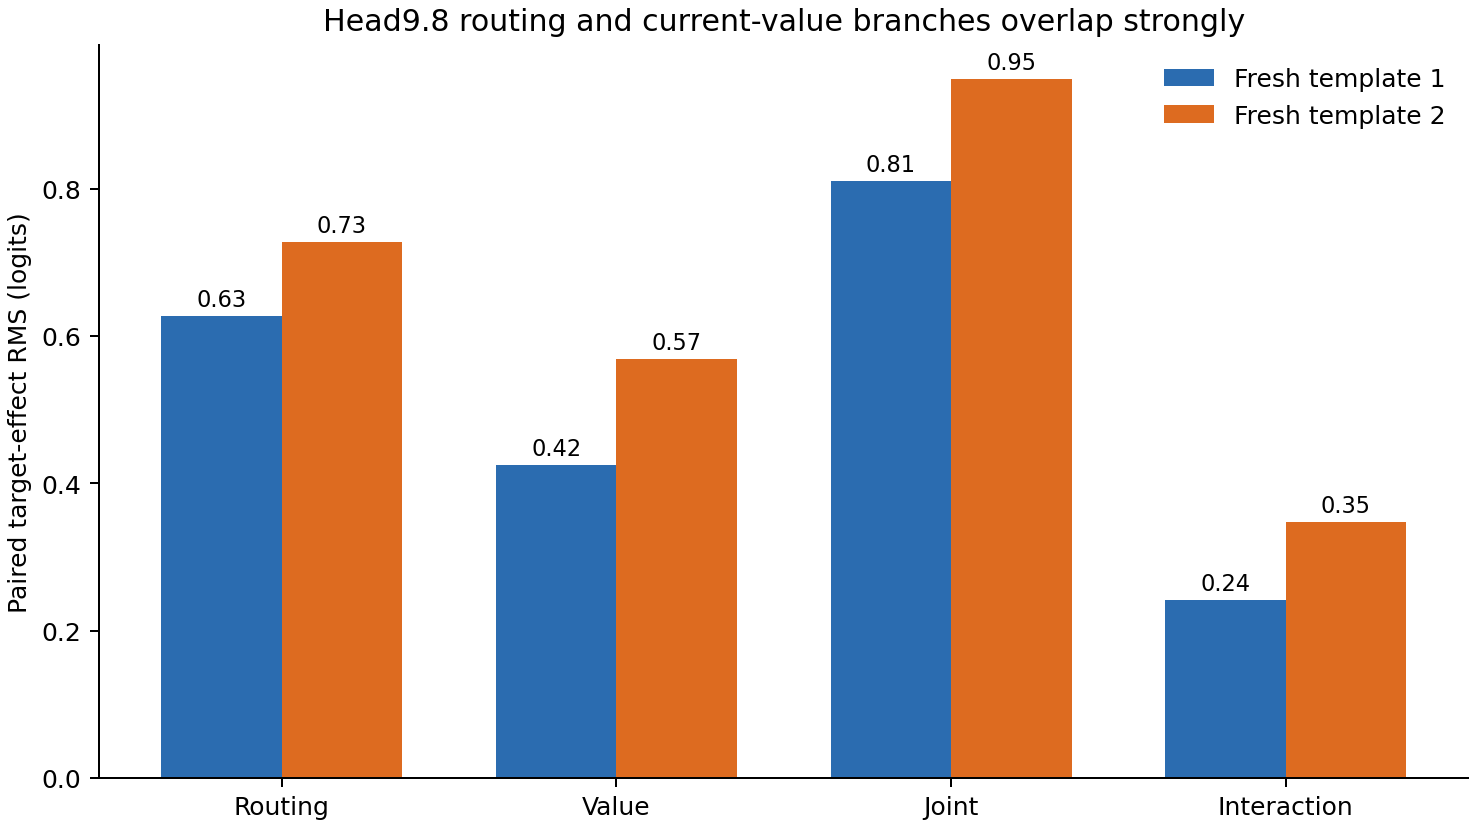
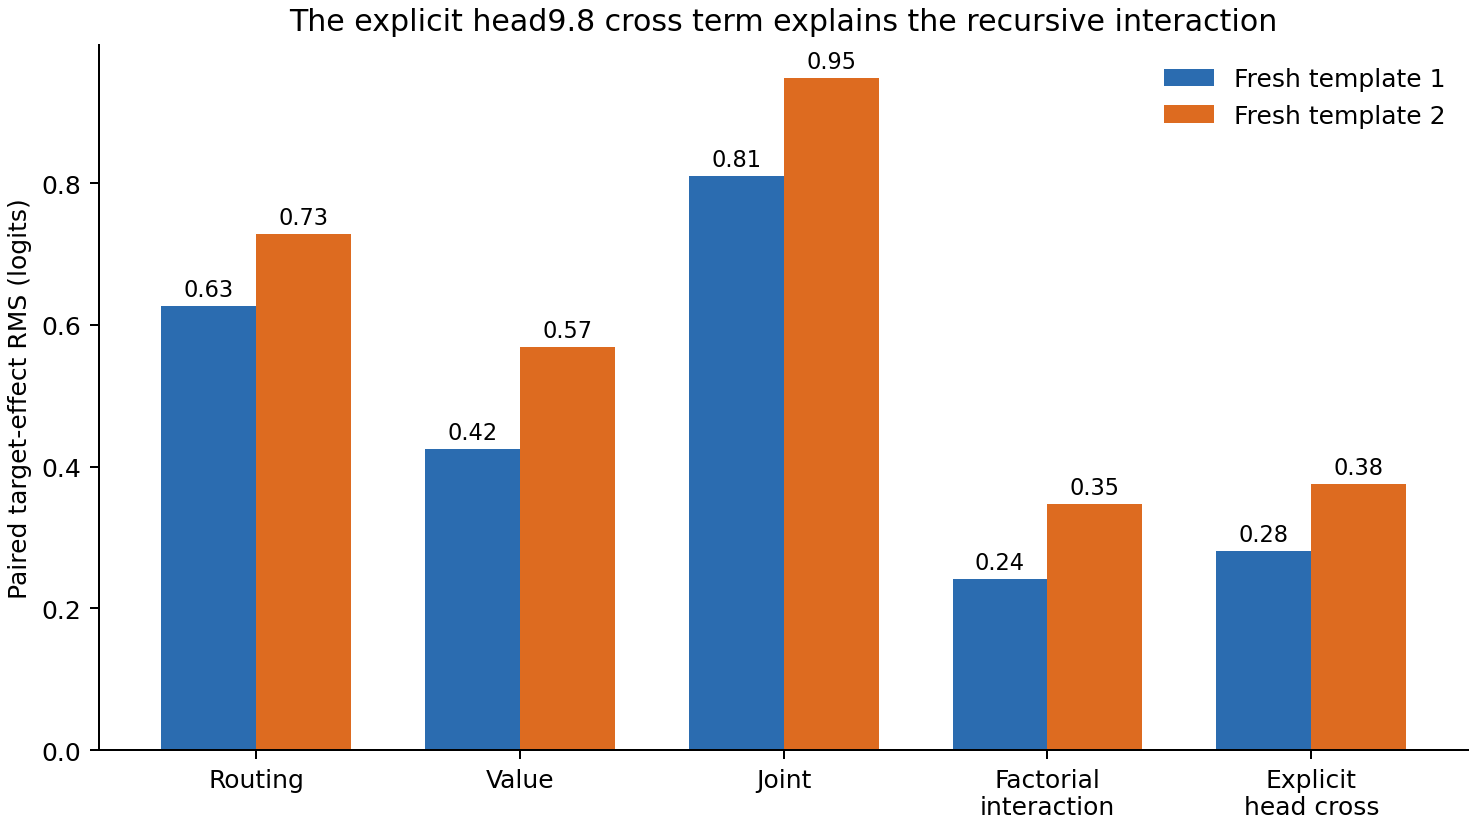
Attribute regional interaction to head cross term

diff --git a/basis_aligned/polynomial_causal/explanations/for_logan/make_research_update_2026_09_15_composition_figure.py b/basis_aligned/polynomial_causal/explanations/for_logan/make_research_update_2026_09_15_composition_figure.py
@@ -7,12 +7,12 @@ import matplotlib.pyplot as plt
 import numpy as np
 
 HERE=Path(__file__).resolve().parent
-RESULT=HERE.parents[2]/"bilinear_quotient/circuits/fast_screens/setting2_regional_qk1_value_composition_fresh_v1_result.json"
+RESULT=HERE.parents[2]/"bilinear_quotient/circuits/fast_screens/setting2_regional_qk1_value_interaction_attribution_v1_result.json"
 OUT=HERE/"assets/research_update_2026-09-15_routing_value_composition.png"
 
 data=json.loads(RESULT.read_text())["family_reports"]
-labels=("Routing", "Value", "Joint", "Interaction")
-keys=("routing_target_rms", "value_target_rms", "joint_target_rms", "interaction_target_rms")
+labels=("Routing", "Value", "Joint", "Factorial\ninteraction", "Explicit\nhead cross")
+keys=("routing_target_rms", "value_target_rms", "joint_target_rms", "interaction_target_rms", "explicit_cross_target_rms")
 x=np.arange(len(labels)); width=.36
 fig,ax=plt.subplots(figsize=(8.2,4.6),layout="constrained")
 for offset,(family,color) in enumerate((("0","#2b6cb0"),("1","#dd6b20"))):
@@ -20,6 +20,6 @@ for offset,(family,color) in enumerate((("0","#2b6cb0"),("1","#dd6b20"))):
     bars=ax.bar(x+(offset-.5)*width,values,width,label=f"Fresh template {int(family)+1}",color=color)
     ax.bar_label(bars,fmt="%.2f",padding=2,fontsize=9)
 ax.set_xticks(x,labels); ax.set_ylabel("Paired target-effect RMS (logits)")
-ax.set_title("Head9.8 routing and current-value branches overlap strongly")
+ax.set_title("The explicit head9.8 cross term explains the recursive interaction")
 ax.spines[["top","right"]].set_visible(False); ax.legend(frameon=False)
 OUT.parent.mkdir(exist_ok=True); fig.savefig(OUT,dpi=180); print(OUT)

diff --git a/basis_aligned/bilinear_quotient/COMPUTATION_PATH_REGISTRY.md b/basis_aligned/bilinear_quotient/COMPUTATION_PATH_REGISTRY.md
@@ -43,7 +43,7 @@ without treating either complete native module as the semantic unit.
 | ID | Direction and endpoint | Candidate native terms | Current evidence | Live handoff |
 |---|---|---|---|---|
 | PATH-SUBJECT-001 | MLP8 input/context forward to L11H3 subject-number write and its downstream readers | Native-axis coordinate multiplied by the head-local response to an MLP6/7 number-source switch | Circuit record `grammatical_subject_number.v34`: exact `[1,z,s,zs]` reaches `.3769` cross-construction relative L2. A mean donor-free source predicts $s$ at `.2880` error; rank-2 activation/displacement PCA reaches only `.2872`, and composed coefficient errors remain `.5159/.5107` | Preserve the transferable response scalar and stop activation-rank sweeps on these rows. On the next circuit hour, define a response-oriented basis from the frozen head operator; require fresh causal substitution after discovery |
-| PATH-SET2-001 | Regional UK/US output contrast backward through MLP17 to earlier attention9 and MLP16 | Exact residual propagation followed by MLP17, attention-head, and QK source cross terms | Head9.8's three late-touching QK1 carry blocks replay with `.1119` selected-row and `.1385` fresh-row error; their exact grouped score has bilinear rank two and uses 256 rather than 384 scalar products per cell. Recursive removal is material (`.528–.598` of full-head effect). A fresh 2×2 intervention composes that route with the independently identified head8.2-induced current-value input: the explicit routing×value term is `.591–.619` of the smaller head-space single and the recursive target interaction is `.569–.610` of the smaller behavioral single. Its downstream response is led by direct attention9 (`.5422`) and attention17 (`.2495`), while MLP17 is anti-aligned (`−.1378`) | Preserve the causal QK1/value product and reject the MLP16×MLP17 suffix as its explanation. On the next folding hour, split the direct propagated term and induced attention17 response by head/QK overlap |
+| PATH-SET2-001 | Regional UK/US output contrast backward through MLP17 to earlier attention9 and MLP16 | Exact residual propagation followed by MLP17, attention-head, and QK source cross terms | Head9.8's three late-touching QK1 carry blocks replay with `.1119` selected-row and `.1385` fresh-row error; their exact grouped score has bilinear rank two and uses 256 rather than 384 scalar products per cell. Recursive removal is material (`.528–.598` of full-head effect). A fresh 2×2 intervention composes that route with the independently identified head8.2-induced current-value input: the explicit routing×value term is `.591–.619` of the smaller head-space single and the recursive target interaction is `.569–.610` of the smaller behavioral single. A fifth arm attributes that interaction to the explicit head product at `.9993/.9989` cosine and `.165/.097` relative error; suffix curvature mainly changes magnitude. Its downstream response is led by direct attention9 (`.5422`) and attention17 (`.2495`), while MLP17 is anti-aligned (`−.1378`) | Preserve the causal QK1/value product and reject the MLP16×MLP17 suffix as its explanation. On the next folding hour, split the direct propagated term and induced attention17 response by head/QK overlap |
 | PATH-SET1-001 | MLP9 forward through attention10 into MLP10 and its larger parent | QK/value producer terms and downstream bilinear self/cross terms | Approximate sparse parent screens exist; individual and sign exceptions remain | Use circuit-localized reader/writer evidence to select terms before another folded approximation |
 | PATH-UNEMBED-001 | Token or token-family unembedding rows backward through final RMS, MLP17, and earlier contributors | Shared unembedding components, token-specific remainder, MLP17 bilinear terms, selected earlier residual sources | Proposed path family with partial setting3 fits; no adopted full path | Choose one semantic logit contrast and derive its exact backward factors before fitting |
 | PATH-EMBED-001 | Embedding forward through selected early decoders to a named intermediate reader | Token/position embedding pieces and selected early attention/MLP self/cross terms | Unopened under the alternating-track directive | Start only from a circuit with a named downstream decision point and selective intervention |
@@ -75,6 +75,8 @@ without treating either complete native module as the semantic unit.
 - [Fresh late-group routing preregistration](../polynomial_causal/SETTING2_REGIONAL_HEAD9_8_QK1_LATE_GROUP_FRESH_ROUTING_V1_PREREGISTRATION.md)
 - [Fresh QK1 routing × current-value composition](circuits/fast_screens/setting2_regional_qk1_value_composition_fresh_v1_result.json)
 - [Fresh composition preregistration](../polynomial_causal/SETTING2_REGIONAL_QK1_VALUE_COMPOSITION_FRESH_V1_PREREGISTRATION.md)
+- [Explicit head-cross attribution](circuits/fast_screens/setting2_regional_qk1_value_interaction_attribution_v1_result.json)
+- [Head-cross attribution preregistration](../polynomial_causal/SETTING2_REGIONAL_QK1_VALUE_INTERACTION_ATTRIBUTION_V1_PREREGISTRATION.md)
 - [QK1 edit downstream-response census](circuits/fast_screens/setting2_regional_qk1_edit_downstream_response_census_v2_result.json)
 - [Downstream-response census preregistration](../polynomial_causal/SETTING2_REGIONAL_QK1_EDIT_DOWNSTREAM_RESPONSE_CENSUS_V1_PREREGISTRATION.md)
 - [Three-block bilinear-rank control](../polynomial_causal/THREE_BLOCK_BILINEAR_RANK_CONTROL_20260915_0549_RESULT.json)

diff --git a/basis_aligned/polynomial_causal/explanations/for_logan/research_update_2026-09-15_0430_subject_response_interaction.md b/basis_aligned/polynomial_causal/explanations/for_logan/research_update_2026-09-15_0430_subject_response_interaction.md
@@ -50,6 +50,11 @@ output, and 57–61% after the recursive suffix. This is the first direct result
 showing how the circuit track and backward weight-folding track meet in one
 native attention product.
 
+A fifth intervention separates that head product from downstream nonlinear
+curvature. The explicit head cross predicts the recursive interaction at
+cosine `.9993/.9989` and relative error `.165/.097`. The interaction direction
+therefore comes from head9.8 itself; the suffix changes its magnitude modestly.
+
 ![Prediction errors for the response interaction and donor-free proxy](assets/research_update_2026-09-15_subject_response_interaction.png)
 
 *Figure 1. Lower is better. Left: only the exact multiplicative response model passes the `.40` coefficient-error ceiling. Right: the two-vector proxy passes its response-scalar gate but fails after composition into the coefficient program.*
@@ -333,9 +338,18 @@ remains nearly directionally aligned with the additive sum (cosine
 All 24 native pairs have the expected sign, and all five unrelated-reader ratios
 are below `.288`.
 
+The ordinary difference-of-differences could, by itself, mix the head product
+with nonlinear interactions created later in the network. A fifth arm installs
+$-Rv+P\Delta v$ at the head while deliberately omitting $-R\Delta v$. Subtracting
+this arm from the true joint isolates the explicit head cross. Its target RMS is
+`.281/.376` logits, compared with `.242/.347` for the full recursive factorial
+interaction; their cosines are `.9993/.9989` and relative errors `.165/.097`.
+Most of the interaction is therefore attributable to the bilinear head
+computation, with the suffix attenuating its magnitude.
+
 ![Fresh routing and value composition](assets/research_update_2026-09-15_routing_value_composition.png)
 
-*Figure 5. Both single branches are live. The interaction bar is the recursively measured difference-of-differences, not an independently removable module, and is large relative to the value-only branch.*
+*Figure 5. Both single branches are live. The factorial bar is the recursive difference-of-differences; the explicit-head bar comes from joint minus the additive-without-cross intervention. Their close sizes and directions localize most nonadditivity inside head9.8.*
 
 ## What is established
 
@@ -449,6 +463,11 @@ $1.11\times10^{-7}$. The first queue submission was rejected before model load
 because the static gate disallowed a local `__file__` path expression; replacing
 it with the already defined runner path changed no scientific input.
 
+The five-arm attribution reused the opened 48-row panel and required 30 physical
+batches, or 240 sequences. It changed no fitted quantity or component. Its added
+arm installs the two single head-vector deltas without their product, providing
+a direct causal control for suffix-generated nonlinearity.
+
 ### Code and primary receipts
 
 - [Response-coordinate preregistration](../../SUBJECT_NUMBER_NATIVE_HEAD_RESPONSE_COORDINATE_DISCOVERY_V1_PREREGISTRATION.md)
@@ -478,3 +497,6 @@ it with the already defined runner path changed no scientific input.
 - [Fresh composition preregistration](../../SETTING2_REGIONAL_QK1_VALUE_COMPOSITION_FRESH_V1_PREREGISTRATION.md)
 - [Fresh composition runner](../../../bilinear_quotient/ops/run_setting2_regional_qk1_value_composition_fresh_v1.py)
 - [Fresh composition result](../../../bilinear_quotient/circuits/fast_screens/setting2_regional_qk1_value_composition_fresh_v1_result.json)
+- [Head-cross attribution preregistration](../../SETTING2_REGIONAL_QK1_VALUE_INTERACTION_ATTRIBUTION_V1_PREREGISTRATION.md)
+- [Head-cross attribution runner](../../../bilinear_quotient/ops/run_setting2_regional_qk1_value_interaction_attribution_v1.py)
+- [Head-cross attribution result](../../../bilinear_quotient/circuits/fast_screens/setting2_regional_qk1_value_interaction_attribution_v1_result.json)

diff --git a/basis_aligned/bilinear_quotient/circuits/MODULE_DOSSIERS.md b/basis_aligned/bilinear_quotient/circuits/MODULE_DOSSIERS.md
@@ -761,6 +761,17 @@ framing sources; the earlier O-only result identifies its origin but is a
 narrower projected subcomponent. [Preregistration](../../polynomial_causal/SETTING2_REGIONAL_QK1_VALUE_COMPOSITION_FRESH_V1_PREREGISTRATION.md),
 [result](fast_screens/setting2_regional_qk1_value_composition_fresh_v1_result.json).
 
+The five-arm attribution separates this explicit head product from nonlinear
+suffix curvature. Joint minus an additive-without-cross head intervention
+matches the ordinary recursive factorial interaction with cosine
+`.99930/.99891` and relative error `.16533/.09669`. The explicit head-cross
+effects have RMS `.28072/.37577` logits versus factorial interaction RMS
+`.24192/.34678`. Thus the head9.8 product determines the interaction direction
+and most of its magnitude; the native suffix attenuates it modestly. This panel
+was already opened by the four-arm result, so it strengthens mechanism
+attribution rather than adding fresh transfer evidence. [Preregistration](../../polynomial_causal/SETTING2_REGIONAL_QK1_VALUE_INTERACTION_ATTRIBUTION_V1_PREREGISTRATION.md),
+[result](fast_screens/setting2_regional_qk1_value_interaction_attribution_v1_result.json).
+
 The same edge transfers to a score-blind cached corpus panel. On FineWeb and
 Pile/reference, inherited-edge/full-city errors are19.48% and16.91%, effect
 cosines are.9963 and.9948, and all63 native-capable pairs move toward the donor

diff --git a/basis_aligned/polynomial_causal/HOURLY_STRATEGIC_REVIEW_2026-09-15_0601.md b/basis_aligned/polynomial_causal/HOURLY_STRATEGIC_REVIEW_2026-09-15_0601.md
@@ -160,3 +160,10 @@ UK-minus-US effects are `−.7976/−.9231` logits, joint/additive cosines are
 manual-attention, midpoint-scaling, and joint-algebra audits are all at or below
 `1.11e-7`. This closes the review's missing circuit↔path composition record and
 hands the next weight-folding hour a causally confirmed QK1×current-value product.
+
+The immediate five-arm attribution completed at 06:21 UTC on the same now-opened
+panel. Joint minus the additive-without-cross head arm predicts the factorial
+interaction at `.99930/.99891` cosine and `.16533/.09669` relative error. All
+five gates pass. This assigns the interaction primarily to the explicit
+head9.8 product, with smaller downstream magnitude curvature, and does not count
+as another fresh-family transfer.

diff --git a/basis_aligned/bilinear_quotient/CIRCUIT_REGISTRY.md b/basis_aligned/bilinear_quotient/CIRCUIT_REGISTRY.md
@@ -54,6 +54,7 @@ facts must be checked in the prior-result gate even when the exact experiment pr
   [fresh chain](../polynomial_causal/ODD_ATTENTION8H2_CHAIN_FRESH_V1_RESULT.json),
   [midpoint edit](../polynomial_causal/ODD_ATTENTION8H2_MIDPOINT_EDIT_V1_RESULT.json),
   [fresh QK1 routing × value composition](circuits/fast_screens/setting2_regional_qk1_value_composition_fresh_v1_result.json),
+  [explicit head-cross attribution](circuits/fast_screens/setting2_regional_qk1_value_interaction_attribution_v1_result.json),
   [corpus transfer](../polynomial_causal/ODD_ATTENTION8H2_CORPUS_TRANSFER_V1_RESULT.json),
   and [corpus removal](../polynomial_causal/ODD_ATTENTION8H2_CORPUS_MIDPOINT_REMOVAL_V1_RESULT.json).
 
